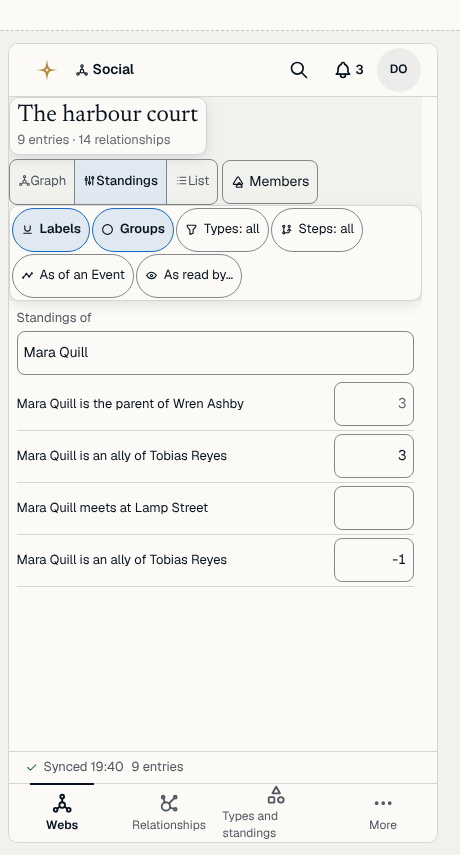
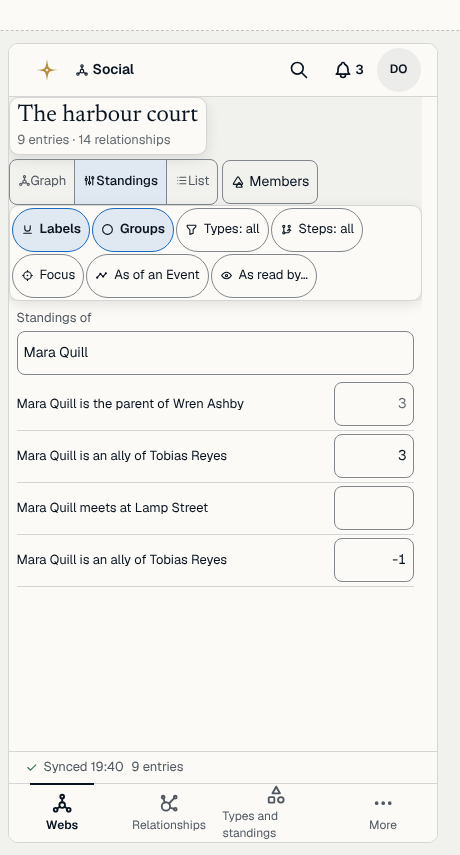
docs(design): add a vertical control bar, Focus and in-place matrix editing to Social
Claude-Session: https://claude.ai/code/session_019tF9Ngh3Gpv3ddhQs8PBZi

Changed region(s): [[0.0304, 0.3041, 0.7, 0.3345]]

diff --git a/docs/design/web/social/prototype/sc-pages.js b/docs/design/web/social/prototype/sc-pages.js
@@ -22,22 +22,25 @@ function graphSVG(web) {
   const hid = shownRels(web).length - R.length;
   const pairs = {}; R.forEach((r) => { const k = [r.a, r.b].sort().join('|'); (pairs[k] = pairs[k] || []).push(r.id); });
   const sid = mainStanding();
+  let near = null; if (SC.focus && SC.sel) { near = new Set(); if (SC.sel.k === 'ent') { near.add(SC.sel.id); R.forEach((r) => { if (r.a === SC.sel.id) near.add(r.b); if (r.b === SC.sel.id) near.add(r.a); }); } else { const r0 = relOf(SC.sel.id); if (r0) { near.add(r0.a); near.add(r0.b); } } }
+  const edgeNear = (r) => !near || (SC.sel.k === 'ent' ? r.a === SC.sel.id || r.b === SC.sel.id : r.id === SC.sel.id);
   const hulls = SC.hulls ? Object.keys(GROUP_MEMBERS).map((g) => { const m = GROUP_MEMBERS[g].filter((x) => idset.has(x)); if (m.length < 2) return ''; const pts = m.map((k) => P[k]); const h = m.length === 2 ? [pts[0], pts[1], [pts[1][0] + 0.01, pts[1][1] + 0.01]] : hullOf(pts); const cx = pts.reduce((s, p) => s + p[0], 0) / pts.length, top = Math.min(...pts.map((p) => p[1])); return `<g class="hull"><g class="hb"><polygon points="${h.map((p) => p.join(',')).join(' ')}"/></g><text x="${cx}" y="${top - 38}" text-anchor="middle">${esc(ENTS[g].n)}</text></g>`; }).join('') : '';
   const lbls = []; const edges = R.map((r) => {
     const [x0, y0] = P[r.a], [x1, y1] = P[r.b]; const dx = x1 - x0, dy = y1 - y0, L = Math.hypot(dx, dy) || 1; const ux = dx / L, uy = dy / L; const sx = x0 + ux * 23, sy = y0 + uy * 23, ex = x1 - ux * 27, ey = y1 - uy * 27;
     const list = pairs[[r.a, r.b].sort().join('|')]; const i = list.indexOf(r.id); const off = (i - (list.length - 1) / 2) * 34 * (r.a < r.b ? 1 : -1); const mx = (sx + ex) / 2 - uy * off, my = (sy + ey) / 2 + ux * off;
     const st = relState(r); const dash = st === 'unknown' ? '2 6' : r.through.length ? '8 5' : ''; const on = SC.sel && SC.sel.k === 'rel' && SC.sel.id === r.id; const s = standing(r, sid);
     const pathD = `M${sx},${sy} Q${mx},${my} ${ex},${ey}`; const lx = (sx + 2 * mx + ex) / 4, ly = (sy + 2 * my + ey) / 4;
-    if (SC.labels) lbls.push(`<text class="elbl" aria-hidden="true" x="${lx}" y="${ly - 5}" text-anchor="middle">${esc(typeOf(r.type).n)}${s.v !== null ? ` · ${s.v > 0 ? '+' : ''}${s.v}` : ''}</text>`);
-    return `<g class="edge ${on ? 'on' : ''} ${faded.includes(r.id) ? 'faded' : ''}" data-rel="${r.id}" role="button" tabindex="-1" aria-label="${esc(sentence(r))}${st === 'unknown' ? `, unknown as of ${esc(eventN(SC.lens))}` : ''}${st === 'not yet' || st === 'ended' ? `, ${st}` : ''}"><path d="${pathD}" stroke-dasharray="${dash}" stroke-linecap="${st === 'unknown' ? 'round' : 'butt'}" ${twoWay(r) ? '' : 'marker-end="url(#sarr)"'}/><path class="hit" d="${pathD}"/></g>`;
+    if (SC.labels && edgeNear(r)) lbls.push(`<text class="elbl" aria-hidden="true" x="${lx}" y="${ly - 5}" text-anchor="middle">${esc(typeOf(r.type).n)}${s.v !== null ? ` · ${s.v > 0 ? '+' : ''}${s.v}` : ''}</text>`);
+    return `<g class="edge ${on ? 'on' : ''} ${faded.includes(r.id) ? 'faded' : ''} ${edgeNear(r) ? '' : 'dim'}" data-rel="${r.id}" role="button" tabindex="-1" aria-label="${esc(sentence(r))}${st === 'unknown' ? `, unknown as of ${esc(eventN(SC.lens))}` : ''}${st === 'not yet' || st === 'ended' ? `, ${st}` : ''}"><path d="${pathD}" stroke-dasharray="${dash}" stroke-linecap="${st === 'unknown' ? 'round' : 'butt'}" ${twoWay(r) ? '' : 'marker-end="url(#sarr)"'}/><path class="hit" d="${pathD}"/></g>`;
   }).join('');
-  const nodes = ids.map((id) => { const [x, y] = P[id]; const on = SC.sel && SC.sel.k === 'ent' && SC.sel.id === id; const pend = SC.connect && SC.connect.a === id; return `<g class="node ${on ? 'on' : ''} ${pend ? 'pend' : ''}" data-ent="${id}" role="button" tabindex="${id === ids[0] ? 0 : -1}" aria-label="${esc(ENTS[id].n)}, ${ENTS[id].k}"><circle cx="${x}" cy="${y}" r="19"/><svg x="${x - 9}" y="${y - 9}" width="18" height="18"><use href="${ICONS}#icon-${KIND_ICON[ENTS[id].k]}"/></svg><text x="${x}" y="${y + 36}" text-anchor="middle">${esc(ENTS[id].n)}</text></g>`; }).join('');
+  const nodes = ids.map((id) => { const [x, y] = P[id]; const on = SC.sel && SC.sel.k === 'ent' && SC.sel.id === id; const pend = SC.connect && SC.connect.a === id; return `<g class="node ${on ? 'on' : ''} ${pend ? 'pend' : ''} ${!near || near.has(id) ? '' : 'dim'}" data-ent="${id}" role="button" tabindex="${id === ids[0] ? 0 : -1}" aria-label="${esc(ENTS[id].n)}, ${ENTS[id].k}"><circle cx="${x}" cy="${y}" r="19"/><svg x="${x - 9}" y="${y - 9}" width="18" height="18"><use href="${ICONS}#icon-${KIND_ICON[ENTS[id].k]}"/></svg><text x="${x}" y="${y + 36}" text-anchor="middle">${esc(ENTS[id].n)}</text></g>`; }).join('');
   return { hid, svg: `<svg class="sosvg" id="sosvg" viewBox="0 0 ${GW} ${GH}" preserveAspectRatio="xMidYMid meet" role="group" aria-label="${esc(web.n)}, a social web of ${pl(ids.length, 'entry', 'entries')}. A list of the same relationships is under List."><defs><marker id="sarr" viewBox="0 0 10 10" refX="9" refY="5" markerWidth="8" markerHeight="8" orient="auto-start-reverse"><path d="M0 0L10 5L0 10z" fill="currentColor"/></marker></defs><g id="scg" transform="translate(${SC.px} ${SC.py}) scale(${SC.z})">${hulls}${edges}<g class="elbls" aria-hidden="true">${lbls.join('')}</g>${nodes}</g></svg>` };
 }
 const legend = () => `<div class="lgd" role="group" aria-label="Legend"><span><svg width="34" height="8" aria-hidden="true"><line x1="0" y1="4" x2="34" y2="4" stroke="currentColor" stroke-width="2"/></svg>direct</span><span><svg width="34" height="8" aria-hidden="true"><line x1="0" y1="4" x2="34" y2="4" stroke="currentColor" stroke-width="2" stroke-dasharray="8 5"/></svg>derived, through others</span><span><svg width="34" height="8" aria-hidden="true"><line x1="0" y1="4" x2="34" y2="4" stroke="currentColor" stroke-width="2" stroke-dasharray="2 6" stroke-linecap="round"/></svg>unknown</span><span><svg width="34" height="10" aria-hidden="true"><line x1="0" y1="5" x2="28" y2="5" stroke="currentColor" stroke-width="2"/><path d="M26 1L34 5L26 9z" fill="currentColor"/></svg>direction</span></div>`;
 /* ---------------------------------------------------------------- toolbar, lens line, panel */
 const viewSw = () => `<div class="seg" role="radiogroup" aria-label="View">${[['graph', 'Graph', 'social'], ...(isPhone() ? [['standings', 'Standings', 'stat']] : [['matrix', 'Matrix', 'table']]), ['list', 'List', 'list']].map(([k, t, i]) => `<button type="button" role="radio" aria-checked="${SC.view === k}" data-so="view" data-v="${k}">${ic(i)}<span>${t}</span></button>`).join('')}</div>`;
-const switches = (web) => `<div class="sws" role="group" aria-label="What the web shows"><button type="button" class="chip" aria-pressed="${SC.labels}" data-so="labels">${ic('underline')}<span>Labels</span></button><button type="button" class="chip" aria-pressed="${SC.hulls}" data-so="hulls">${ic('kind-group')}<span>Groups</span></button><button type="button" class="chip" data-so="types" aria-haspopup="menu" aria-expanded="false">${ic('filter')}<span>Types: ${SC.hide.size ? `${TYPES.filter((t) => t.directed !== undefined).length - SC.hide.size} of ${TYPES.filter((t) => t.directed !== undefined).length}` : 'all'}</span></button><button type="button" class="chip" data-so="steps" aria-haspopup="menu" aria-expanded="false">${ic('ancestry')}<span>Steps: ${SC.steps ? SC.steps : 'all'}</span></button><button type="button" class="chip" aria-pressed="${!!SC.lens}" data-so="lens" aria-haspopup="menu" aria-expanded="false">${ic('timeline')}<span>As of an Event</span></button><button type="button" class="chip" aria-pressed="${!!SC.asread}" data-so="asread" aria-haspopup="menu" aria-expanded="false">${ic('eye')}<span>As read by…</span></button></div>`;
+const chip = (attrs, icon, text, pressed) => `<button type="button" class="chip" ${attrs} ${pressed === undefined ? '' : `aria-pressed="${pressed}"`} aria-label="${esc(text)}" title="${esc(text)}">${ic(icon)}<span>${esc(text)}</span></button>`;
+const switches = (web) => { const nt = TYPES.filter((t) => t.reads).length; return `<div class="sws" role="group" aria-label="What the web shows">${chip('data-so="labels"', 'underline', 'Labels', SC.labels)}${chip('data-so="hulls"', 'kind-group', 'Groups', SC.hulls)}${chip('data-so="types" aria-haspopup="menu" aria-expanded="false"', 'filter', `Types: ${SC.hide.size ? `${nt - SC.hide.size} of ${nt}` : 'all'}`)}${chip('data-so="steps" aria-haspopup="menu" aria-expanded="false"', 'ancestry', `Steps: ${SC.steps ? SC.steps : 'all'}`)}${chip('data-so="focus"', 'focus-mode', 'Focus', SC.focus)}${chip('data-so="lens" aria-haspopup="menu" aria-expanded="false"', 'timeline', 'As of an Event', !!SC.lens)}${chip('data-so="asread" aria-haspopup="menu" aria-expanded="false"', 'eye', 'As read by…', !!SC.asread)}</div>`; };
 function lensLine() {
   if (!SC.lens && !SC.asread) return '';
   const bits = []; if (SC.lens) bits.push(`Looking as of <b>${esc(eventN(SC.lens))}</b>`); if (SC.asread) bits.push(`As read by <b>${esc(entName(SC.asread))}</b> (what ${esc(entName(SC.asread).split(' ')[0])} may read)`);
@@ -96,7 +99,7 @@ function matrixHTML(web) {
   return `<div class="somx"><div class="mxbar"><label class="solbl" for="mxmode">Show</label><select id="mxmode" class="select sm" data-so-sel="mxmode">${modeOpts}</select><label class="solbl" for="mxnew">New cells are</label><select id="mxnew" class="select sm" data-so-sel="mxnew">${TYPES.filter((t) => t.reads).map((t) => `<option value="${t.id}" ${(SC.newType || 'ally') === t.id ? 'selected' : ''}>${esc(t.n)}</option>`).join('')}</select><label class="solbl" for="mxord">Order</label><select id="mxord" class="select sm" data-so-sel="mxord"><option value="name" ${SC.order === 'name' ? 'selected' : ''}>By name</option><option value="group" ${SC.order === 'group' ? 'selected' : ''}>By group</option><option value="standing" ${SC.order === 'standing' ? 'selected' : ''}>By standing</option></select>${typeMode ? '' : `<span class="t-meta">${scaleWords(sid)}</span>`}<span class="t-meta">${dirNote}</span></div>
   <div class="lgd" role="group" aria-label="Legend"><span><span class="cell"><span class="cnum">+3</span><span class="cbar"><i style="width:80%"></i></span></span>set here</span><span><span class="cell derived"><span class="cnum">+2</span><span class="cmark">derived</span></span>worked out through others</span><span><span class="cell inherited"><span class="cnum">+1</span><span class="cmark">inherited</span></span>from its type</span><span><span class="cell unknown"><span class="cnum">?</span><span class="cmark">unknown</span></span>unknown as of this Event</span><span><span class="cell"><span class="cnum">2</span><span class="cmark">two fill it</span></span>two relationships</span></div>
   <div class="mxw hmask"><table class="mx" role="grid" aria-label="${esc(STANDINGS.find((s) => s.id === sid) ? STANDINGS.find((s) => s.id === sid).n : '')} of ${esc(web.n)}, from the row to the column. Arrow keys move; Enter or F2 edits; Delete clears."><caption class="sr-only">Standing from the row to the column</caption><thead><tr role="row"><th scope="col" class="corner"><span class="t-meta">From ↓ To →</span></th>${M.map((k) => `<th scope="col" role="columnheader"><span>${esc(entName(k))}</span></th>`).join('')}</tr></thead><tbody>${M.map((a, ri) => `<tr role="row"><th scope="row" role="rowheader">${esc(entName(a))}</th>${M.map((b, ci) => cellHTML(a, b, ri, ci, a === cur[0] && b === cur[1])).join('')}</tr>`).join('')}</tbody></table></div>
-  <p class="t-meta somxn">${isGM() ? 'Type to replace a value, Enter or F2 to edit, Delete to clear, Ctrl Z to undo. ' : 'You can read this; writing your own is a later slice. '}A cell you may not read is empty, the same as none. Any total is worked out here from what you can see. Hundreds of members are windowed in the real app; this shows ${pl(M.length, 'member', 'members')}.</p></div>
+  <p class="t-meta somxn">${isGM() && !isPhone() ? 'Click a cell, then click again or type to edit it where it is. Enter saves and moves down, Tab moves right, Escape cancels, Delete clears, Ctrl Z undoes. ' : 'You can read this; writing your own is a later slice. '}A cell you may not read is empty, the same as none. Any total is worked out here from what you can see. Hundreds of members are windowed in the real app; this shows ${pl(M.length, 'member', 'members')}.</p></div>
   ${n ? `<div class="savebar2" role="region" aria-label="Unsaved changes"><span>${pl(n, 'change', 'changes')} not saved</span><span class="grow"></span><button type="button" class="btn" data-so="discard">Discard</button><button type="button" class="btn btn--primary" data-so="save">Save changes</button></div>` : ''}`;
 }
 /* the phone's stand-in for the matrix: one entry's standings, with the same save */

diff --git a/docs/design/web/social/prototype/sc-main.js b/docs/design/web/social/prototype/sc-main.js
@@ -1,8 +1,8 @@
 /* Social: routes, actions, dialogs, the graph's pointer and keys, the matrix's keys and its save. */
 function scRefresh(keepFocus) {
-  const m = $('#main'); const top = m.scrollTop; const f = document.activeElement; let sel = null, pos = null;
+  const m = $('#main'); const top = m.scrollTop; const f = document.activeElement; let sel = null, pos = null; const sc = $$('.sov, .mxw').map((e) => [e.scrollTop, e.scrollLeft]);
   if (keepFocus && f && m.contains(f)) { sel = f.id ? `#${f.id}` : f.dataset.cell ? `[data-cell="${f.dataset.cell}"]` : f.dataset.ent ? `[data-ent="${f.dataset.ent}"]` : f.dataset.so ? `[data-so="${f.dataset.so}"]${f.dataset.v ? `[data-v="${CSS.escape(f.dataset.v)}"]` : ''}` : null; if (f.selectionStart != null) pos = [f.selectionStart, f.selectionEnd]; }
-  const r = cur(); S.meta = r.meta ? r.meta() : ''; m.innerHTML = r.render(); scAfter(); m.scrollTop = top;
+  const r = cur(); S.meta = r.meta ? r.meta() : ''; m.innerHTML = r.render(); scAfter(); m.scrollTop = top; $$('.sov, .mxw').forEach((e, i) => { if (sc[i]) { e.scrollTop = sc[i][0]; e.scrollLeft = sc[i][1]; } });
   if (sel) { const n = $(sel, m); if (n) { n.focus({ preventScroll: true }); if (pos && n.setSelectionRange) n.setSelectionRange(pos[0], pos[1]); } }
   updateStatus();
 }
@@ -76,7 +76,12 @@ function commitCell(key, raw) {
 }
 function mxKeydown(e) {
   const td = e.target.closest('[data-cell]'); const inp = e.target.closest('[data-mxin]');
-  if (inp) { if (e.key === 'Enter') { e.preventDefault(); commitCell(inp.dataset.mxin, inp.value.trim()); } else if (e.key === 'Escape') { e.preventDefault(); const k = inp.dataset.mxin; SC.editing = null; delete SC.refused[k]; scRefresh(); $(`[data-cell="${k}"]`).focus(); } return; }
+  if (inp) {
+    const key = inp.dataset.mxin; const nxt = (dr, dc) => { const M = mxMembers(); const [a, b] = key.split('>'); let r = M.indexOf(a), c = M.indexOf(b); r = Math.max(0, Math.min(M.length - 1, r + dr)); c = Math.max(0, Math.min(M.length - 1, c + dc)); SC.cur = [M[r], M[c]]; scRefresh(); const n = $(`[data-cell="${mxKey(M[r], M[c])}"]`); if (n) { n.focus({ preventScroll: true }); keepFrame(); } };
+    if (e.key === 'Enter' || (e.key === 'Tab' && !e.shiftKey)) { e.preventDefault(); SC.skipBlur = true; commitCell(key, inp.value.trim()); SC.skipBlur = false; if (!SC.refused[key]) nxt(e.key === 'Enter' ? 1 : 0, e.key === 'Tab' ? 1 : 0); }
+    else if (e.key === 'Escape') { e.preventDefault(); SC.skipBlur = true; SC.editing = null; delete SC.refused[key]; scRefresh(); SC.skipBlur = false; const c = $(`[data-cell="${key}"]`); if (c) c.focus({ preventScroll: true }); }
+    return;
+  }
   if ((e.ctrlKey || e.metaKey) && td && (e.key === 'z' || e.key === 'y')) { e.preventDefault(); if (e.key === 'z' && SC.undoS.length) { SC.redoS.push(JSON.stringify(SC.draft)); SC.draft = JSON.parse(SC.undoS.pop()); } else if (e.key === 'y' && SC.redoS.length) { SC.undoS.push(JSON.stringify(SC.draft)); SC.draft = JSON.parse(SC.redoS.pop()); } scRefresh(true); return; }
   if (!td) return; const M = mxMembers(); let r = +td.dataset.r, c = +td.dataset.c; const go = (dr, dc) => { r = Math.max(0, Math.min(M.length - 1, r + dr)); c = Math.max(0, Math.min(M.length - 1, c + dc)); SC.cur = [M[r], M[c]]; scRefresh(); const n = $(`[data-cell="${mxKey(M[r], M[c])}"]`); if (n) { n.focus({ preventScroll: true }); n.scrollIntoView({ block: 'nearest', inline: 'nearest' }); keepFrame(); } };
   const k = e.key; if (k === 'ArrowDown') { e.preventDefault(); go(1, 0); } else if (k === 'ArrowUp') { e.preventDefault(); go(-1, 0); } else if (k === 'ArrowLeft') { e.preventDefault(); go(0, -1); } else if (k === 'ArrowRight') { e.preventDefault(); go(0, 1); } else if (k === 'Home') { e.preventDefault(); go(0, -c); } else if (k === 'End') { e.preventDefault(); go(0, M.length); } else if (k === 'PageDown') { e.preventDefault(); go(5, 0); } else if (k === 'PageUp') { e.preventDefault(); go(-5, 0); }
@@ -84,7 +89,7 @@ function mxKeydown(e) {
   else if (isGM() && !isPhone() && (k === 'Delete' || k === 'Backspace')) { e.preventDefault(); clearCell(td.dataset.cell); }
 }
 function startEdit(key, first) {
-  const [a, b] = key.split('>'); if (a === b) return; const L = cellRels(a, b); const typeMode = SC.mxMode.startsWith('type:');
+  if (SC.editing === key) return; const [a, b] = key.split('>'); if (a === b) return; const L = cellRels(a, b); const typeMode = SC.mxMode.startsWith('type:');
   if (L.length > 1 && !SC.draft[key]) return openDialog({ title: 'Two relationships fill this cell', body: `<p class="muted" style="margin:0 0 var(--s-2h)">Which one do you want to edit?</p>${L.map((r, i) => `<label class="ivrd"><input type="radio" name="wr" value="${r.id}" ${i === 0 ? 'checked' : ''}> <span>${esc(sentence(r))}</span><span class="t-meta">${standing(r, mainStanding()).v !== null ? standing(r, mainStanding()).v : 'no value'}</span></label>`).join('')}`, actions: [{ label: 'Cancel' }, { label: 'Edit this one', kind: 'primary', fn: (d) => { const rid = $('input[name=wr]:checked', d).value; SC.draft[key] = { val: standing(relOf(rid), mainStanding()).v === null ? '' : String(standing(relOf(rid), mainStanding()).v), rid }; scSoon(() => { SC.editing = key; delete SC.draft[key]; SC.wr = rid; scRefresh(); const i = $('#mxi'); if (i) i.select(); }); } }] });
   if (typeMode) { if (L.length) { toast({ title: 'A relationship is removed from its own page', text: 'Open it from the list to delete it.' }); return; } setDraft(key, '1'); scRefresh(true); return; }
   SC.editing = key; scRefresh(); const i = $('#mxi'); if (i) { if (first) { i.value = first; i.setSelectionRange(1, 1); } else i.select(); i.focus(); }
@@ -113,11 +118,12 @@ function saveDrafts() {
 /* ---- clicks */
 function scClick(e) {
   if (SC.dragged) { SC.dragged = false; return; }
+  if (SC.editing && !e.target.closest('[data-mxin]')) { const i = $('#mxi'); if (i) { SC.skipBlur = true; commitCell(SC.editing, i.value.trim()); SC.skipBlur = false; if (SC.editing) return; } }
   const nd = e.target.closest('[data-ent]'); if (nd && !e.target.closest('input') && $('#sosvg') && $('#sosvg').contains(nd)) { nodeClick(nd.dataset.ent); return; }
   const ed = e.target.closest('[data-rel].edge'); if (ed && isPhone()) { location.hash = '#/rel/' + ed.dataset.rel; return; } if (ed) { SC.sel = { k: 'rel', id: ed.dataset.rel }; scRefresh(); announce(sentence(relOf(ed.dataset.rel))); return; }
-  const mc = e.target.closest('[data-cell]'); if (mc && !e.target.closest('input')) { SC.cur = mc.dataset.cell.split('>'); const ed2 = SC.editing; if (ed2 && ed2 !== mc.dataset.cell) SC.editing = null; scRefresh(); const n = $(`[data-cell="${mc.dataset.cell}"]`); if (n) { n.focus({ preventScroll: true }); keepFrame(); } return; }
+  const mc = e.target.closest('[data-cell]'); if (mc && !e.target.closest('input')) { const was = SC.cur.join('>') === mc.dataset.cell; SC.cur = mc.dataset.cell.split('>'); if (was && isGM() && !isPhone() && !SC.editing) { startEdit(mc.dataset.cell); return; } const ed2 = SC.editing; if (ed2 && ed2 !== mc.dataset.cell) SC.editing = null; scRefresh(); const n = $(`[data-cell="${mc.dataset.cell}"]`); if (n) { n.focus({ preventScroll: true }); keepFrame(); } return; }
   const t = e.target.closest('[data-so]'); if (!t) return; if (t.getAttribute('aria-disabled') === 'true') return; const k = t.dataset.so, v = t.dataset.v;
-  const F = { view: () => { SC.view = v; scRefresh(true); announce(v); }, labels: () => { SC.labels = !SC.labels; scRefresh(true); }, hulls: () => { SC.hulls = !SC.hulls; scRefresh(true); }, types: () => typesMenu(t), steps: () => stepsMenu(t), lens: () => lensMenu(t), asread: () => readMenu(t),
+  const F = { view: () => { SC.view = v; scRefresh(true); announce(v); }, labels: () => { SC.labels = !SC.labels; scRefresh(true); }, focus: () => { SC.focus = !SC.focus; if (SC.focus && !SC.sel) toast({ title: 'Select an entry or a relationship first', text: 'Focus dims everything else.' }); scRefresh(true); announce(SC.focus ? 'Focus on' : 'Focus off'); }, hulls: () => { SC.hulls = !SC.hulls; scRefresh(true); }, types: () => typesMenu(t), steps: () => stepsMenu(t), lens: () => lensMenu(t), asread: () => readMenu(t),
     clear: () => { SC.lens = null; SC.asread = null; SC.lensAll = false; scRefresh(); announce('Lens cleared'); }, lensall: () => { SC.lensAll = !SC.lensAll; scRefresh(true); }, selrel: () => { if (isPhone()) { location.hash = '#/rel/' + v; return; } SC.sel = { k: 'rel', id: v }; scRefresh(true); }, closep: () => { SC.sel = null; scRefresh(); },
     members: membersDialog, connect: () => { SC.connect = SC.connect ? null : { a: null }; scRefresh(true); announce(SC.connect ? 'Connect: choose the first entry' : 'Connect cancelled'); }, connectfrom: () => { SC.connect = { a: v }; SC.sel = null; scRefresh(); announce(`Connecting ${entName(v)}: choose the other entry`); }, cancelconnect: () => { SC.connect = null; scRefresh(); },
     zin: () => { SC.z = Math.min(3, fx(SC.z * 1.25)); scRefresh(true); }, zout: () => { SC.z = Math.max(0.4, fx(SC.z / 1.25)); scRefresh(true); }, zfit: () => { SC.z = 1; SC.px = 0; SC.py = 0; scRefresh(true); },
@@ -164,7 +170,7 @@ function graphBind() {
 }
 document.addEventListener('keydown', (e) => { if (e.key === 'Escape' && S.route.startsWith('web') && !OV.el && !$('.menu[data-open]') && SC.sel) { SC.sel = null; scRefresh(); } });
 function scAfter() {
-  const m = $('#main'); m.onclick = scClick; m.oninput = scInput; m.onchange = scChange; m.onkeydown = mxKeydown; graphBind();
+  const m = $('#main'); m.ondblclick = (e) => { const mc = e.target.closest('[data-cell]'); if (mc && isGM() && !isPhone() && !e.target.closest('input')) startEdit(mc.dataset.cell); }; m.onfocusout = (e) => { const inp = e.target.closest && e.target.closest('[data-mxin]'); if (!inp || SC.skipBlur) return; setTimeout(() => { if (inp.isConnected && SC.editing === inp.dataset.mxin && !SC.skipBlur && document.activeElement !== inp) commitCell(inp.dataset.mxin, inp.value.trim()); }, 0); }; m.onclick = scClick; m.oninput = scInput; m.onchange = scChange; m.onkeydown = mxKeydown; graphBind();
   m.onscroll = () => { if (m.scrollLeft) m.scrollLeft = 0; }; const fr = $('#frame'); if (fr) fr.onscroll = () => { if (fr.scrollLeft) fr.scrollLeft = 0; }; const sa = $('.so-a'); if (sa) sa.onscroll = () => { if (sa.scrollLeft || sa.scrollTop) { sa.scrollLeft = 0; sa.scrollTop = 0; } };
 }
 /* ---- routes */

diff --git a/docs/design/web/social/prototype/sc.css b/docs/design/web/social/prototype/sc.css
@@ -54,3 +54,13 @@
 @container shell (min-width: 1100px) { .so-a.haspanel .sofl-br { right: calc(22rem + var(--s-3) * 2); } }
 @container shell (max-width: 1099px) { .soslide { bottom: 11.5rem; } }
 .so .seg button, .so-a .seg button { min-height: 44px; } .so .btn { min-height: 44px; } .so .btn.sm, .so .chip.sm { min-height: 44px; }
+
+/* the controls on the right are a vertical bar; the panel and the bottom-right controls sit to its left */
+.sofl-tr { flex-direction: column; align-items: flex-end; max-width: none; } .sws { flex-direction: column; flex-wrap: nowrap; align-items: stretch; width: 11.75rem; } .sws .chip { justify-content: flex-start; width: 100%; white-space: nowrap; }
+.soslide { right: calc(11.75rem + var(--s-3) * 2); } .sofl-top { left: 42%; }
+@container shell (min-width: 1100px) { .so-a.haspanel .sofl-br { right: calc(22rem + 11.75rem + var(--s-3) * 3); } }
+@container shell (max-width: 1099px) { .sws { width: auto; } .sws .chip span { display: none; } .sws .chip { width: 44px; justify-content: center; padding: 0; } .soslide { right: calc(52px + var(--s-3) * 2); width: min(22rem, calc(100% - 52px - var(--s-3) * 3)); } }
+@container shell (max-width: 719px) { .sofl-tr { align-items: stretch; } .sws { flex-direction: row; flex-wrap: wrap; width: auto; } .sws .chip { width: auto; padding: 0 var(--s-3); justify-content: flex-start; } .sws .chip span { display: inline; } .soslide { right: auto; width: auto; } }
+.sosvg .edge.dim, .sosvg .node.dim { opacity: 0.2; } .sosvg .node.dim, .sosvg .edge.dim { transition: opacity var(--so-tr); }
+.mx td.mxc { cursor: text; } .mx td.mxc.draft, .mx td.mxc:focus-visible { cursor: text; }
+@container shell (min-width: 720px) { .sov.solid { padding-right: 13.5rem; } }

diff --git a/docs/design/web/social/prototype/sc-core.js b/docs/design/web/social/prototype/sc-core.js
@@ -1,7 +1,7 @@
 /* Social: state, what a reader may see, the standings, the date lens, the layouts and the matrix's edits. */
 const pl = (n, a, b) => `${n} ${n === 1 ? a : b}`;
 const parts = () => S.route.split('/');
-const SC = { web: 'court', view: 'graph', sel: null, labels: true, hulls: true, hide: new Set(), steps: 0, layout: 'circle', lens: null, lensAll: false, asread: null, connect: null, z: 1, px: 0, py: 0, mxMode: 'rep', order: 'name', cur: ['mara', 'tobias'], draft: {}, refused: {}, undoS: [], redoS: [], noTypes: false, noWebs: false, stale: true, q: '', rq: '', rf: { type: '', end: '', min: '' }, ent: 'mara', editing: null };
+const SC = { web: 'court', view: 'graph', sel: null, labels: true, hulls: true, hide: new Set(), steps: 0, layout: 'circle', lens: null, lensAll: false, asread: null, connect: null, z: 1, px: 0, py: 0, mxMode: 'rep', order: 'name', cur: ['mara', 'tobias'], draft: {}, refused: {}, undoS: [], redoS: [], noTypes: false, noWebs: false, stale: true, q: '', rq: '', rf: { type: '', end: '', min: '' }, ent: 'mara', editing: null, focus: false, skipBlur: false };
 const isGM = () => S.role === 'gm';
 const MYBEING = 'imani'; /* the player's own being */
 const entOf = (id) => ENTS[id]; const typeOf = (id) => TYPES.find((t) => t.id === id); const stOf = (id) => STANDINGS.find((s) => s.id === id); const relOf = (id) => RELS.find((r) => r.id === id); const webOf = (id) => WEBS.find((w) => w.id === id);

diff --git a/docs/design/web/social/README.md b/docs/design/web/social/README.md
@@ -2,7 +2,7 @@
 
 A fresh design of Lorenzo Social, a new app, from the jobs people do there. The system it is built on is in [the web design](../README.md): the shell, the templates, the states and the decisions D1 to D29. The account hub, Writing, Calendars with Sessions, Maps, Beings and Inventory are decided. This page holds the brief, the questions and the decision log for this app.
 
-Status: the prototype is built and ready for review (decisions SO1 to SO6 are logged here).
+Status: the prototype is built and ready for review (decisions SO1 to SO8 are logged here).
 
 The app comes from [RFC 0049](../../rfcs/0049-lorenzo-social-relationships-and-social-webs.md) and ADRs 0399 to 0408, written in parallel on the open pull request [#1010](https://github.com/ramsesoriginal/lorenzo/pull/1010). Its section "For the interface design" is the brief this page builds on. Where they differ, the RFC wins until it is changed.
 
@@ -146,6 +146,14 @@ A **Relationship** is two overlapping rings (new). A **Social web**, and the app
 
 Direction A. The graph fills the page and the view switch, the region switches, the legend and the zoom float over it, with the panel sliding in from the right. From direction C comes the **Members** control: a dialog to add entries by name, add a group's members, add everyone within some steps of the selected entry, and remove members. It writes explicit rows and never a rule.
 
+### SO7. The controls on the right are a vertical bar, and the graph has a Focus
+
+The region switches (Labels, Groups, Types, Steps, Focus, As of an Event, As read by) are a vertical bar at the top right, each a chip with an icon and its word. The panel slides in to the left of the bar and the bottom-right controls move left of the panel. On a tablet the chips are icons with their words as names; on a phone the bar is a wrapped row again. **Focus** dims everything but the selected entry and its neighbours, or the selected relationship and its two ends, so a large web can be read around one thing. It says so if nothing is selected.
+
+### SO8. The matrix edits where the cell is
+
+A first click selects a cell, a second click or a double click edits it where it is, and typing on a selected cell starts the edit too. Clicking away saves the edit as a draft, Enter saves and moves down, Tab saves and moves right, Escape cancels, Delete clears. The save bar, the refusals and Undo are as before.
+
 ## The directions (drawn; A with C's members control chosen)
 
 In `directions/`: the web page in three layouts, each with its Graph, Matrix and List views, on the shell with made-up data (a harbour town, nine entries, ten relationships). The graph is an SVG stand-in for the renderer package's drawing. The matrix and the list are the same in all three; what differs is where the controls and the panel sit. Run it:
@@ -182,14 +190,14 @@ The Webs home lists the webs with a Continue block, makes a new web (empty, with
 
 - **Graph, Matrix, List** are three views of one page; the selection carries from one to the next. At phone width the switch is Graph (read-only), Standings and List.
 - **The graph:** entries and relationships, drawn solid, dashed (through others) or dotted (unknown) with an arrowhead for direction, labelled with the type and the standing. Groups are soft outlines. Several relationships between one pair curve apart. Layouts: Circle, Radial from the selected entry, Force, and Placed by hand (drag, or Alt with the arrow keys, or fields for X and Y). Pan, zoom, fit; keys for zoom and pan. The graph is one tab stop that opens into its nodes, and the arrow keys move along edges.
-- **The switches:** Labels, Groups, the types shown, and steps from the selected entry (All, 1, 2). The panel shows a relationship (ends, type, one row per standing with its scale and where it comes from, since and until, the chain it holds through, notes) or an entry (its relationships, and its members apart from them).
+- **The switches** (a vertical bar, SO7): Labels, Groups, the types shown, steps from the selected entry (All, 1, 2) and Focus. The panel shows a relationship (ends, type, one row per standing with its scale and where it comes from, since and until, the chain it holds through, notes) or an entry (its relationships, and its members apart from them).
 - **The date lens and "as read by"** (SO4): a line says what is on and clears it. As of an Event, a relationship holds, has not started, has ended, or is unknown (an Event with no recorded order, or one the reader cannot see); those that have not started or have ended are not drawn, with a count of how many, and a switch shows them faded. As read by a being shows what that being may read.
 - **Members** and **Connect:** pick one entry, pick another, then the type and a standing; the same entry twice is refused in words; a value outside the scale is refused in the form.
 - **Edit in the panel:** a standing is a number that saves and says what it refused; since and until are Events and refuse an end before a start; each change has Undo.
 
 ### The matrix (SO3)
 
-An ARIA grid with one tab stop: arrows, Home, End and the page keys move, Enter or F2 edits, typing replaces, Escape cancels, Delete clears (asked once), Ctrl Z and Ctrl Y undo and redo drafts. Cells show a number, a quiet bar, and a mark and a word for derived, inherited, unknown and two-fill-one-cell; a legend says what they are. Edits are drafts in a save bar; a value outside the scale is refused at the cell; one cell is refused on save as changed meanwhile (412) with the draft kept, and the rest are saved with Undo. An empty cell creates a restricted relationship of the type chosen in "New cells are". Presence mode shows a type as present or not, and says whether it is one-way. A conflict cell asks which relationship to edit. A cell the reader may not read is empty.
+An ARIA grid with one tab stop: arrows, Home, End and the page keys move. A click selects, a second click or a double click edits in place, and so do Enter, F2 and typing; clicking away or Tab or Enter saves the draft and Enter or Tab move on; Escape cancels, Delete clears (asked once), Ctrl Z and Ctrl Y undo and redo drafts. Cells show a number, a quiet bar, and a mark and a word for derived, inherited, unknown and two-fill-one-cell; a legend says what they are. Edits are drafts in a save bar; a value outside the scale is refused at the cell; one cell is refused on save as changed meanwhile (412) with the draft kept, and the rest are saved with Undo. An empty cell creates a restricted relationship of the type chosen in "New cells are". Presence mode shows a type as present or not, and says whether it is one-way. A conflict cell asks which relationship to edit. A cell the reader may not read is empty.
 
 ### Relationships, a relationship, an entry, Types and standings, Problems
 
@@ -205,7 +213,7 @@ The data is made up and kept in the page. The graph and its layouts are stand-in
 
 ### What was checked
 
-98 scripted checks pass (Playwright, 1440 and 430 wide): the webs and their empty states; the graph, its encodings and its layouts; selection, the panels, in-place edits, refusals and Undo; the date lens, the unknown state and "as read by"; types, steps, members and connect; zoom and the keys; placing by hand with a drag, the keys and the fields; the matrix's keys, drafts, refusals, the stale cell, the conflict cell and the presence mode; the relationships list, a relationship, an entry, types and problems; a player's absent entries and relationships; a phone's views, no horizontal scroll and 44 px targets. axe-core finds no violations on 19 to 21 states at 1440 and 430, light and dark (80 runs; the landmark-region rule is off for overlays). There are no console errors.
+108 scripted checks pass (Playwright, 1440 and 430 wide): the webs and their empty states; the graph, its encodings and its layouts; selection, the panels, in-place edits, refusals and Undo; the date lens, the unknown state and "as read by"; types, steps, members and connect; zoom and the keys; placing by hand with a drag, the keys and the fields; focus and the vertical bar; the matrix's keys, in-place edits with the pointer, drafts, refusals, the stale cell, the conflict cell and the presence mode; the relationships list, a relationship, an entry, types and problems; a player's absent entries and relationships; a phone's views, no horizontal scroll and 44 px targets. axe-core finds no violations on 19 to 21 states at 1440 and 430, light and dark (80 runs; the landmark-region rule is off for overlays). There are no console errors.
 
 ### What was not checked
 
@@ -215,15 +223,15 @@ A screen reader, a real phone or touch device, pinch zoom, colour-blindness simu
 
 - A graph edge's label text made its button's name fail axe, so labels are drawn apart from the edges and hidden from assistive technology; the list and the edge's own name carry the words.
 - A matrix cell's name could not match its visible text, so the cells take their name from their content and the row and column headers, and a refusal is attached with `aria-describedby`.
+- Re-drawing the page reset the matrix's scroll, so a second click landed on a different cell; the scroll is kept.
 - Focusing a cell that was off-screen scrolled the shell's frame; the frame is kept in place.
 - On a phone the slide-over panel fell below the page, so selecting an edge or an entry opens its page instead, with the same content.
 - With the panel open on a large screen it covered the zoom controls, which now move left of it.
 
 ### Screens
 
-In `screens/` (25 images): the Webs home and its empty state; the graph, with a relationship's panel, the date lens, "as read by", Members and Connect; the matrix, with a refused save; the list; the relationships list, a relationship, an entry's page, Types and standings and its empty state, and Problems; a player's graph; dark; and the phone's graph, standings and list.
+In `screens/` (27 images): the Webs home and its empty state; the graph, with a relationship's panel, the date lens, "as read by", Members and Connect; the matrix, with a refused save; the list; the relationships list, a relationship, an entry's page, Types and standings and its empty state, and Problems; a player's graph; dark; and the phone's graph, standings and list.
 
 ## Open questions
 
-- Should the graph offer a "focus" that dims everything but the selection and its neighbours, for a large web, in addition to the steps switch?
-- Should the matrix offer row and column totals for a standing, worded "from what you can see", or is that too close to a score?
+None are open.

diff --git a/docs/design/web/README.md b/docs/design/web/README.md
@@ -2,7 +2,7 @@
 
 The design guidelines for Lorenzo's web interfaces and a fresh design of each web app, worked out with the maintainer on clickable prototypes. This page holds the brief and the decision log. Nothing is decided until it is in the log.
 
-Status: Phase 2 (the shell): the prototype is built and ready for review. Phase 3 (the apps) has started (Social, a new app from [RFC 0049](../../rfcs/0049-lorenzo-social-relationships-and-social-webs.md), joined it last): [account-hub](account-hub/README.md), decided (AH1 to AH9); [writing](writing/README.md), decided (WR1 to WR10); [calendars and sessions](calendars-sessions/README.md), decided (CS1 to CS7); [maps](maps/README.md), decided (MP1 to MP7); [beings](beings/README.md), decided (BN1 to BN10); [inventory](inventory-web/README.md), decided (IN1 to IN12); [social](social/README.md), the prototype is built and ready for review (decisions SO1 to SO6 are logged there).
+Status: Phase 2 (the shell): the prototype is built and ready for review. Phase 3 (the apps) has started (Social, a new app from [RFC 0049](../../rfcs/0049-lorenzo-social-relationships-and-social-webs.md), joined it last): [account-hub](account-hub/README.md), decided (AH1 to AH9); [writing](writing/README.md), decided (WR1 to WR10); [calendars and sessions](calendars-sessions/README.md), decided (CS1 to CS7); [maps](maps/README.md), decided (MP1 to MP7); [beings](beings/README.md), decided (BN1 to BN10); [inventory](inventory-web/README.md), decided (IN1 to IN12); [social](social/README.md), the prototype is built and ready for review (decisions SO1 to SO8 are logged there).
 
 ## Layout of this directory
 
